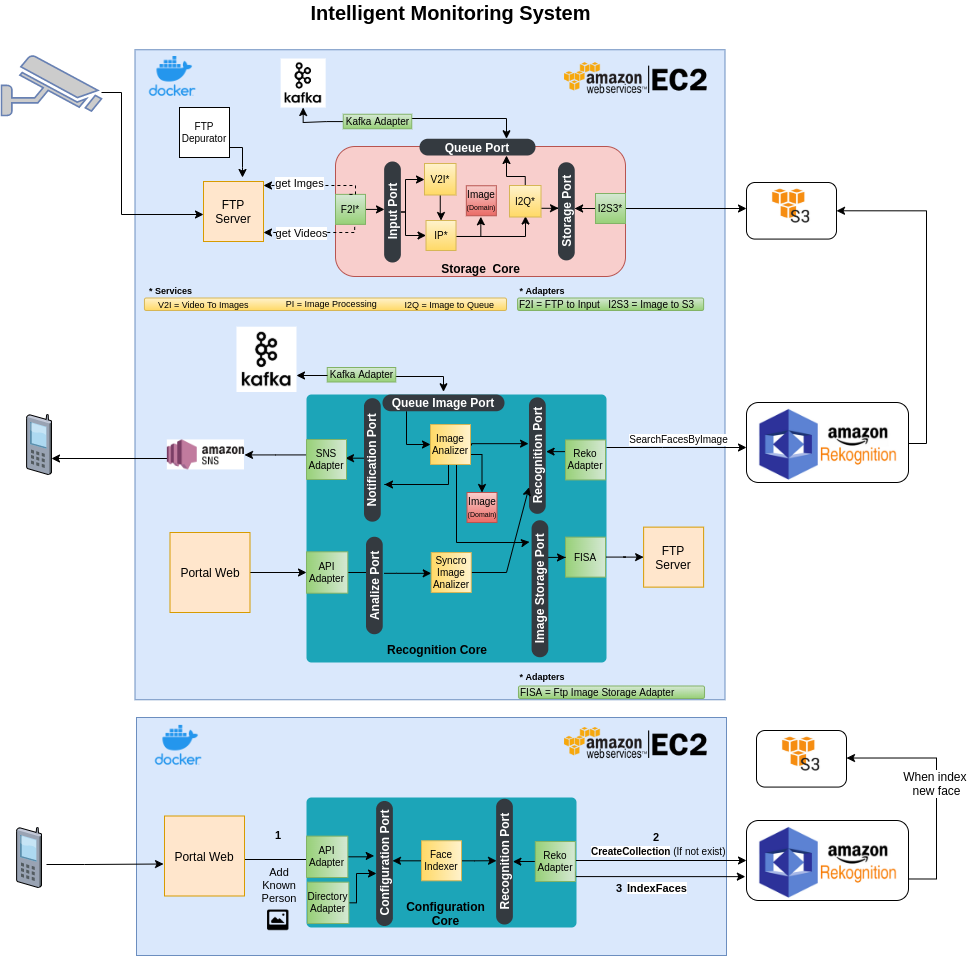
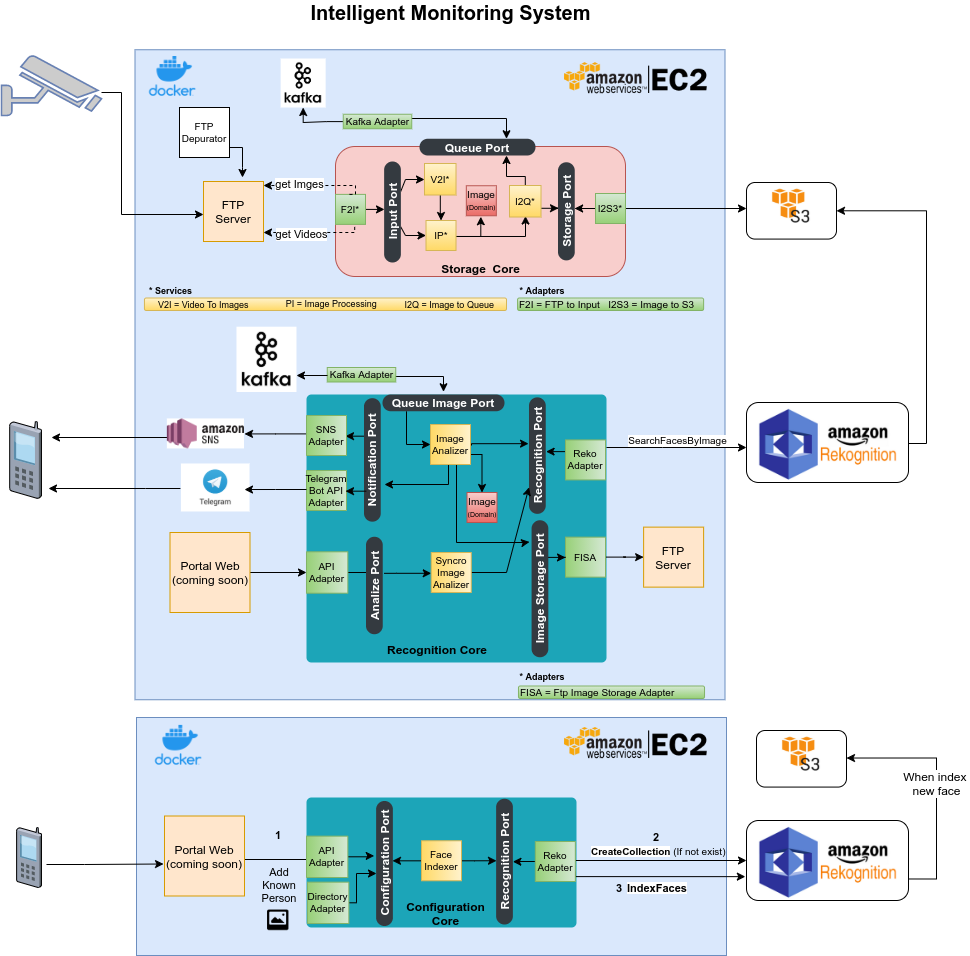
feat: add telegram bot api adapter

diff --git a/recognition-core/adapterout/SNSAdapter.go b/recognition-core/adapterout/SNSAdapter.go
@@ -15,8 +15,14 @@ type SNSAdapter struct {
 	svc *sns.SNS
 }
 
-//NotifyTopic ...
-func (sn *SNSAdapter) NotifyTopic(notification domain.Notification) error {
+//NotifyInitializedSystem
+func (ta *SNSAdapter) NotifyInitializedSystem() error {
+	//TODO
+	return nil
+}
+
+//NotifyUnauthorizedFace ...
+func (sn *SNSAdapter) NotifyUnauthorizedFace(notification domain.Notification) error {
 
 	msg := notification.Message + "\n \n " + notification.Image.URL + "\n \n "
 
@@ -33,18 +39,6 @@ func (sn *SNSAdapter) NotifyTopic(notification domain.Notification) error {
 
 	log.WithFields(log.Fields{"notification.Topic": notification.Topic, "notification.Message": notification.Message, "result": result}).Info("Message correctly sent")
 
-	return nil
-}
-
-//NotifySMS ...
-func (sn *SNSAdapter) NotifySMS(notification domain.SMSNotification) error {
-	//NOT USED ON AWS. THE TYPE OF CHANNEL IT'S CONFIGURED ON TOPIC
-	return nil
-}
-
-//NotifyEmail ...
-func (sn *SNSAdapter) NotifyEmail(notification domain.EmailNotification) error {
-	//NOT USED ON AWS. THE TYPE OF CHANNEL IT'S CONFIGURED ON TOPIC
 	return nil
 }
 
@@ -78,18 +72,11 @@ type SNSAdapterTest struct {
 }
 
 //NotifyTopic ...
-func (sn *SNSAdapterTest) NotifyTopic(notification domain.Notification) error {
+func (sn *SNSAdapterTest) NotifyUnauthorizedFace(notification domain.Notification) error {
 	return nil
 }
 
-//NotifySMS ...
-func (sn *SNSAdapterTest) NotifySMS(notification domain.SMSNotification) error {
-	//NOT USED ON AWS. THE TYPE OF CHANNEL IT'S CONFIGURED ON TOPIC
-	return nil
-}
-
-//NotifyEmail ...
-func (sn *SNSAdapterTest) NotifyEmail(notification domain.EmailNotification) error {
-	//NOT USED ON AWS. THE TYPE OF CHANNEL IT'S CONFIGURED ON TOPIC
+//NotifyInitializedSystem ...
+func (sn *SNSAdapterTest) NotifyInitializedSystem() error {
 	return nil
 }

diff --git a/recognition-core/adapterout/TelegramAdapter.go b/recognition-core/adapterout/TelegramAdapter.go
@@ -1,0 +1,75 @@
+package recognitionadapterout
+
+import (
+	"go-intelligent-monitoring-system/domain"
+	"os"
+	"time"
+
+	log "github.com/sirupsen/logrus"
+
+	tb "gopkg.in/tucnak/telebot.v2"
+)
+
+//TelegramAdapter ...
+type TelegramAdapter struct {
+	bot *tb.Bot
+}
+
+func (ta *TelegramAdapter) Recipient() string {
+	return os.Getenv("TELEGRAM_CHANNEL")
+}
+
+func (ta *TelegramAdapter) NotifyInitializedSystem() error {
+	// The message is sent to the telegram user/channel defined in ta.Recipient() func
+	_, err := ta.bot.Send(ta, "System initialized")
+
+	if err != nil {
+		log.WithError(err).Error("Error sending Initialized System Notification")
+	} else {
+		log.Info("Telegram Bot initialized")
+	}
+
+	return err
+}
+
+//NotifyUnauthorizedFace ...
+func (ta *TelegramAdapter) NotifyUnauthorizedFace(notification domain.Notification) error {
+
+	// The message is sent to the telegram user defined in ta.Recipient() func
+	msg := notification.Message + "\n \n " + notification.Image.URL + "\n \n "
+	_, err := ta.bot.Send(ta, msg)
+
+	return err
+}
+
+//NewTelegramAdapter initializes a TelegramAdapter object.
+func NewTelegramAdapter() *TelegramAdapter {
+
+	b, err := tb.NewBot(tb.Settings{
+		// You can also set custom API URL.
+		// If field is empty it equals to "https://api.telegram.org".
+		//URL: "http://195.129.111.17:8012",
+
+		Token:  os.Getenv("TELEGRAM_BOT_TOKEN"),
+		Poller: &tb.LongPoller{Timeout: 10 * time.Second},
+	})
+
+	if err != nil {
+		log.Fatal(err)
+		return nil
+	}
+
+	b.Handle("/hello", func(m *tb.Message) {
+		b.Send(m.Sender, "Hello "+os.Getenv("TELEGRAM_USER"))
+	})
+
+	go b.Start()
+
+	telBot := &TelegramAdapter{
+		bot: b,
+	}
+
+	defer telBot.NotifyInitializedSystem()
+
+	return telBot
+}

diff --git a/recognition-core/application/ImageAnalizerService.go b/recognition-core/application/ImageAnalizerService.go
@@ -27,7 +27,7 @@ func (ias *ImageAnalizerService) AnalizeImage(image domain.Image) (*domain.Anali
 
 	if analizedImage.PersonNameDetected == "" {
 		notification := ias.createNotification(image)
-		ias.notificationAdapter.NotifyTopic(notification)
+		ias.notificationAdapter.NotifyUnauthorizedFace(notification)
 		log.WithFields(log.Fields{"notification.Message": notification.Message, "notification.Topic": notification.Topic, "notification.Type": notification.Type, "analizedImage.Name": analizedImage.Name, "analizedImage.RecognitionCoreResponse": string(analizedImage.RecognitionCoreResponse)}).Info("Image correctly analized but Person is not Authorized")
 		ias.imageStorageAdapter.SaveNotAuthorizedImage(image)
 	} else {

diff --git a/utils/factory.go b/utils/factory.go
@@ -75,7 +75,8 @@ func NewQueueInAdapter() *recognitionadapterin.KafkaAdapter {
 
 	//Define the "Adapter Out" to be used to connect to notification core
 	var notificationAdapter recognitionapplicationportout.NotificationPort
-	notificationAdapter = recognitionadapterout.NewSNSAdapter()
+	//notificationAdapter = recognitionadapterout.NewSNSAdapter()
+	notificationAdapter = recognitionadapterout.NewTelegramAdapter()
 
 	//Define the "Adapter Out" to be used to save categorized images (authorized, not authorized, etc)
 	var imageStorageAdapter recognitionapplicationportout.ImageStoragePort

diff --git a/domain/Notification.go b/domain/Notification.go
@@ -10,21 +10,3 @@ type Notification struct {
 
 	Message string
 }
-
-//SMSNotification is the domain struct to represent SMS users notifications
-type SMSNotification struct {
-	Notification
-
-	DestinationNumber string
-}
-
-//EmailNotification is the domain struct to represent e-Mail users notifications
-type EmailNotification struct {
-	Notification
-
-	FromAdress string
-
-	DestinationAdress string
-
-	Subject string
-}

diff --git a/recognition-core/application/portout/notification.go b/recognition-core/application/portout/notification.go
@@ -4,7 +4,6 @@ import "go-intelligent-monitoring-system/domain"
 
 //NotificationPort ...
 type NotificationPort interface {
-	NotifyTopic(notification domain.Notification) error
-	NotifySMS(notification domain.SMSNotification) error
-	NotifyEmail(notification domain.EmailNotification) error
+	NotifyUnauthorizedFace(notification domain.Notification) error
+	NotifyInitializedSystem() error
 }

diff --git a/README.md b/README.md
@@ -12,16 +12,10 @@ Coming soon: Api Adapter
 ## Architecture
 ![Architecture](documentation/Architecture.png)
 
-## PlantUml
+## UML Graphics
 
-### Configuration Core
-![Configuration Core](documentation/puml/configuration-core.png)
-### Recognition Core
-![Recognition Core](documentation/puml/recognition-core.png)
-### Storage Core
-![Storage Core](documentation/puml/storage-core.png)
+[PlantUML](https://github.com/arielbrizi/go-intelligent-monitoring-system/tree/develop/documentation/puml) 
 
-#### (Autogenerated by https://github.com/jfeliu007/goplantuml)
 
 ## API Documentation - Swagger
 [editor.swagger.io](https://editor.swagger.io/?url=https://raw.githubusercontent.com/arielbrizi/go-intelligent-monitoring-system/develop/docs/swagger.yaml) (It's also automatically published on .../swagger/index.html)
@@ -54,6 +48,11 @@ Coming soon: Api Adapter
     - SNS_TOPIC=arn:aws:sns:us-east-1:491728392546:monitoringSystem-eMail #Previously configured On AWS
 
     - AUTHORIZED_FACES_DIRECTORY=/home/ariel/fotos_pasillo/authorized_faces/ #Faces you want to define as authorized in JPG files  
+
+    - TELEGRAM_BOT_TOKEN=xxxxxxxxxxxxxxxxX
+    - TELEGRAM_CHANNEL=@notifims #The telegram username/channel will be used to send notifications like unauthorized person detected
+    - TELEGRAM_USER=@arielbrizi
+
 
     ## AWS variables
     - AWS_S3_BUCKET_POLICY={"Version":"2012-10-17","Statement":[{"Sid":"PublicRead","Effect":"Allow","Principal":"*","Action":["s3:GetObject","s3:GetObjectVersion"],"Resource":"arn:aws:s3:::camarasilvia/*"}]} ## Where camarasilvia must be same as CAMARA_DOMAIN variable

diff --git a/documentation/puml/README.md b/documentation/puml/README.md
@@ -4,3 +4,11 @@ https://github.com/jfeliu007/goplantuml
 ### Run from project root directory:
 
 goplantuml -recursive  -aggregate-private-members -show-aggregations -show-implementations . 
+
+
+### Configuration Core
+![Configuration Core](configuration-core.png)
+### Recognition Core
+![Recognition Core](recognition-core.png)
+### Storage Core
+![Storage Core](storage-core.png)
